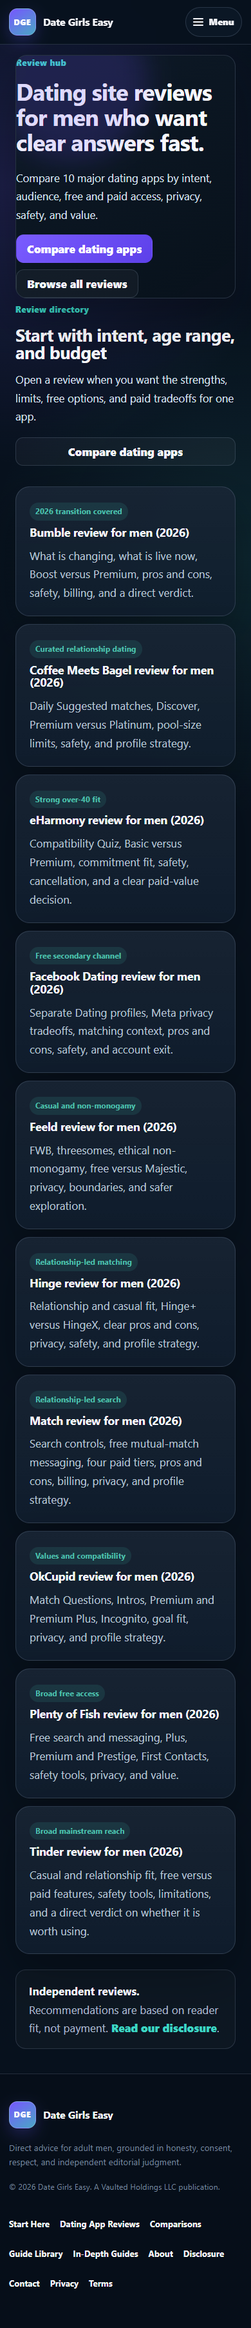
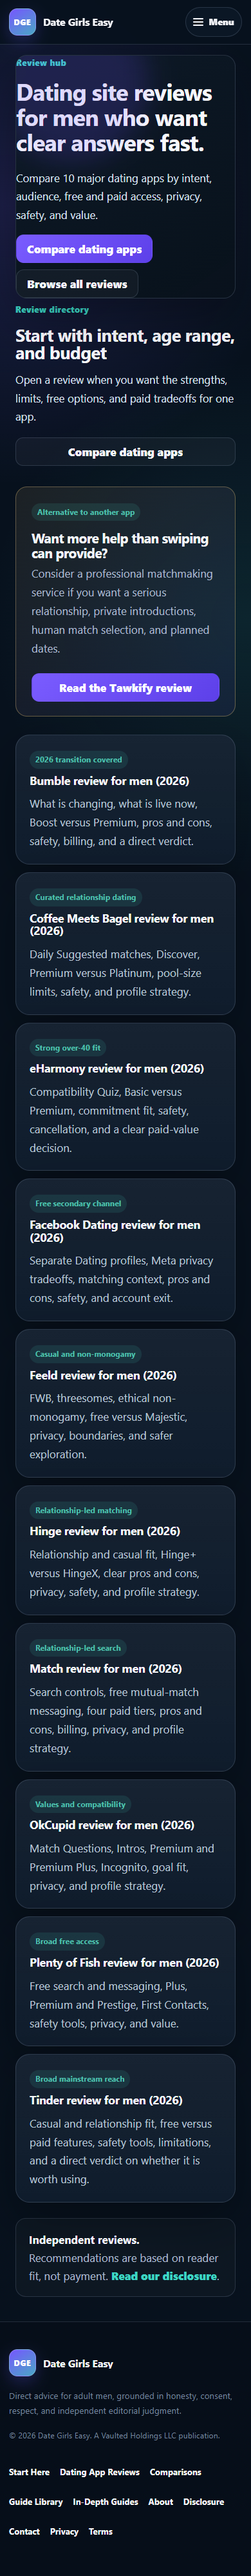
Add Tawkify matchmaking review and Impact verification

Changed region(s): [[0.0308, 0.0, 0.9231, 0.9945], [0.8615, 0.9012, 0.8923, 0.9323], [0.0615, 0.2486, 0.0923, 0.2797]]

diff --git a/reviews/tawkify.html b/reviews/tawkify.html
@@ -1,0 +1,98 @@
+<!doctype html>
+<html lang="en" class="no-js">
+  <head>
+    <script>(function(w,d,s,l,i){w[l]=w[l]||[];w[l].push({'gtm.start':new Date().getTime(),event:'gtm.js'});var f=d.getElementsByTagName(s)[0],j=d.createElement(s),dl=l!='dataLayer'?'&l='+l:'';j.async=true;j.src='https://www.googletagmanager.com/gtm.js?id='+i+dl;f.parentNode.insertBefore(j,f);})(window,document,'script','dataLayer','GTM-KLM9MDV3');</script>
+    <script async src="https://www.googletagmanager.com/gtag/js?id=G-T2TQHDFBZP"></script><script>window.dataLayer=window.dataLayer||[];function gtag(){dataLayer.push(arguments);}gtag('js',new Date());gtag('config','G-T2TQHDFBZP');</script>
+    <meta charset="utf-8" />
+    <meta name="viewport" content="width=device-width, initial-scale=1" />
+    <title>Tawkify Review for Men (2026): Cost, Pros, and Cons</title>
+    <meta name="description" content="2026 Tawkify review for men: how its matchmaking works, client versus member access, pricing context, screening, pros and cons, and who should apply." />
+    <link rel="canonical" href="https://dategirlseasy.com/reviews/tawkify.html" />
+    <link rel="manifest" href="/manifest.webmanifest" /><link rel="icon" href="/assets/logo.png" /><meta name="theme-color" content="#07111d" />
+    <meta property="og:site_name" content="Date Girls Easy" /><meta property="og:title" content="Tawkify Review for Men (2026): Cost, Pros, and Cons" /><meta property="og:description" content="A direct review of Tawkify's private, human-led matchmaking service for relationship-minded men who want an alternative to dating apps." /><meta property="og:type" content="article" /><meta property="og:url" content="https://dategirlseasy.com/reviews/tawkify.html" /><meta property="og:image" content="https://dategirlseasy.com/assets/images/reviews/review-app-choice-editorial.jpg" />
+    <meta name="twitter:card" content="summary_large_image" /><meta name="twitter:title" content="Tawkify Review for Men (2026)" /><meta name="twitter:description" content="Who Tawkify suits, what its matchmakers do, what it costs, and when a dating app is the better choice." /><meta name="twitter:image" content="https://dategirlseasy.com/assets/images/reviews/review-app-choice-editorial.jpg" />
+    <link rel="stylesheet" href="/design-v2.css" /><script>document.documentElement.className="js";</script>
+    <script type="application/ld+json">{"@context":"https://schema.org","@graph":[{"@type":"Review","name":"Tawkify Review for Men (2026): Cost, Pros, and Cons","itemReviewed":{"@type":"Service","name":"Tawkify personalized matchmaking","provider":{"@type":"Organization","name":"Tawkify"}},"author":{"@type":"Organization","name":"Date Girls Easy"},"publisher":{"@type":"Organization","name":"Vaulted Holdings LLC"},"datePublished":"2026-08-25","dateModified":"2026-08-25","reviewBody":"Tawkify is a high-touch alternative to dating apps for relationship-minded men who value privacy, human match selection, screening, and planned dates. It is a weak fit for casual goals, tight budgets, or men who want to browse profiles themselves.","mainEntityOfPage":"https://dategirlseasy.com/reviews/tawkify.html"},{"@type":"BreadcrumbList","itemListElement":[{"@type":"ListItem","position":1,"name":"Home","item":"https://dategirlseasy.com/"},{"@type":"ListItem","position":2,"name":"Reviews","item":"https://dategirlseasy.com/reviews/"},{"@type":"ListItem","position":3,"name":"Tawkify review","item":"https://dategirlseasy.com/reviews/tawkify.html"}]}]}</script>
+  </head>
+  <body class="design-v2">
+    <noscript><iframe title="Google Tag Manager" src="https://www.googletagmanager.com/ns.html?id=GTM-KLM9MDV3" height="0" width="0" style="display:none;visibility:hidden"></iframe></noscript>
+    <a class="skip-link" href="#main-content">Skip to content</a>
+    <header class="publisher-header">
+      <div class="site-shell header-bar">
+        <a class="publisher-brand" href="/" aria-label="Date Girls Easy home"><span class="brand-seal" aria-hidden="true">DGE</span><span class="brand-words"><strong>Date Girls Easy</strong><small>Adult dating intelligence for men</small></span></a>
+        <button class="menu-toggle" type="button" aria-controls="primary-nav" aria-expanded="false" data-menu-toggle><span class="menu-icon" aria-hidden="true"></span>Menu</button>
+        <nav class="primary-nav" id="primary-nav" aria-label="Primary" data-primary-nav data-open="false">
+          <a class="nav-direct" href="/join.html">Start Here</a>
+          <div class="nav-group" data-nav-group>
+            <button class="nav-trigger is-active" type="button" aria-expanded="false" aria-controls="nav-dating-apps" data-nav-trigger>Dating Apps<span class="nav-chevron" aria-hidden="true"></span></button>
+            <div class="nav-submenu nav-submenu-apps" id="nav-dating-apps" data-nav-submenu data-open="false">
+              <div class="nav-submenu-featured">
+                <a href="/comparisons/"><strong>Compare Dating Apps</strong><span>Compare two or three side by side</span></a>
+                <a href="/reviews/"><strong>Dating App Reviews</strong><span>Research one platform in depth</span></a>
+              </div>
+              <div class="nav-submenu-section">
+                <span class="nav-submenu-label">Individual app reviews</span>
+                <div class="nav-app-links">
+                  <a href="/reviews/bumble.html">Bumble Review</a>
+                  <a href="/reviews/coffee-meets-bagel.html">Coffee Meets Bagel Review</a>
+                  <a href="/reviews/eharmony.html">eHarmony Review</a>
+                  <a href="/reviews/facebook-dating.html">Facebook Dating Review</a>
+                  <a href="/reviews/feeld.html">Feeld Review</a>
+                  <a href="/reviews/hinge.html">Hinge Review</a>
+                  <a href="/reviews/match.html">Match Review</a>
+                  <a href="/reviews/okcupid.html">OkCupid Review</a>
+                  <a href="/reviews/plenty-of-fish.html">Plenty of Fish Review</a>
+                  <a href="/reviews/tinder.html">Tinder Review</a>
+                </div>
+              </div>
+            </div>
+          </div>
+          <div class="nav-group" data-nav-group>
+            <button class="nav-trigger" type="button" aria-expanded="false" aria-controls="nav-guides" data-nav-trigger>Guides<span class="nav-chevron" aria-hidden="true"></span></button>
+            <div class="nav-submenu nav-submenu-guides" id="nav-guides" data-nav-submenu data-open="false">
+              <div class="nav-submenu-featured">
+                <a href="/guides/"><strong>Guide Library</strong><span>Search every guide by goal, topic, or format</span></a>
+                <a href="/ebooks/"><strong>In-Depth Guides</strong><span>Longer, chapter-based reading</span></a>
+              </div>
+              <div class="nav-submenu-section">
+                <span class="nav-submenu-label">Browse by topic</span>
+                <div class="nav-guide-links">
+                  <a href="/ebooks/profile-and-photos/">Profiles &amp; Photos</a>
+                  <a href="/ebooks/messaging-and-openers/">Messaging &amp; Texting</a>
+                  <a href="/ebooks/dates-and-escalation/">Getting Dates &amp; Chemistry</a>
+                  <a href="/ebooks/mindset-and-confidence/">Confidence &amp; Social Skills</a>
+                  <a href="/ebooks/body-language/">Body Language</a>
+                  <a href="/ebooks/kissing-and-intimacy/">Kissing &amp; Intimacy</a>
+                </div>
+              </div>
+            </div>
+          </div>
+        </nav>
+      </div>
+    </header>
+    <main class="article-main" id="main-content"><article class="site-shell">
+      <nav class="breadcrumbs" aria-label="Breadcrumb"><a href="/">Home</a><span>/</span><a href="/reviews/">Reviews</a><span>/</span><span aria-current="page">Tawkify review</span></nav>
+      <header class="article-hero"><div><p class="eyebrow warm">Matchmaking service review</p><h1 class="article-title">Tawkify review for men</h1><p class="lede"><strong>Bottom line:</strong> Tawkify is a premium alternative for busy, privacy-conscious men seeking a serious relationship. Skip it for hookups, tight budgets, or if you want to browse profiles yourself.</p><div class="meta-row"><span>Adults 18+</span><span>U.S.-focused</span><span>Independently researched</span><span>Updated August 25, 2026</span></div><p class="checkpoint-note"><strong>Verified August 25, 2026:</strong> service details and pricing references were checked against official Tawkify pages. Company performance statistics are marketing claims, not independently verified results.</p></div><figure class="decision-visual editorial-image-frame ratio-3-2"><picture><source type="image/webp" srcset="/assets/images/reviews/review-app-choice-editorial-640.webp 640w" sizes="(max-width: 800px) calc(100vw - 28px), 430px" /><img src="/assets/images/reviews/review-app-choice-editorial.jpg" width="960" height="640" alt="Adult man comparing dating options on his phone" loading="eager" fetchpriority="high" /></picture></figure></header>
+      <div class="quick-grid" role="group" aria-label="Quick Tawkify review facts"><div><strong>Best for</strong><span>Busy, privacy-conscious men seeking a committed relationship</span></div><div><strong>Weaker fit for</strong><span>Casual dating, hookups, FWB, and budget-first dating</span></div><div><strong>Price level</strong><span>High for full service; request the complete written quote</span></div><div><strong>Editorial verdict</strong><span>A premium human-led alternative, not a better app</span></div></div>
+      <div class="article-layout"><div class="article-content">
+        <section class="article-panel" id="verdict"><p class="eyebrow">Who Tawkify is for</p><h2 class="panel-title">Consider it when app fatigue is costing you time, not just patience.</h2><p>Tawkify replaces public profile browsing with a private, guided process. A dedicated matchmaker learns your relationship history, values, preferences, lifestyle, and dealbreakers, then looks for compatible candidates, screens potential matches, arranges introductions, plans dates, and uses post-date feedback to refine the search.</p><p>That model can make sense for a man with a demanding schedule who wants a long-term partner and is willing to pay for research, logistics, privacy, and accountability. It is not a shortcut to guaranteed chemistry. The service can create introductions; both adults still decide whether attraction, compatibility, and a relationship develop.</p></section>
+        <h2 id="goal-fit">Fit by dating goal</h2><div class="comparison-table-wrap" tabindex="0" aria-labelledby="goal-fit"><table class="comparison-table"><thead><tr><th>Goal</th><th>Editorial fit</th><th>Why</th></tr></thead><tbody><tr><td>Casual dating</td><td>Weak</td><td>The cost and process are built around intentional relationship matching</td></tr><tr><td>One-night encounter</td><td>Poor</td><td>A dating app with honest casual-intent signals is the more appropriate route</td></tr><tr><td>FWB</td><td>Poor</td><td>The high-touch model is inefficient for a noncommitted arrangement</td></tr><tr><td>More quality dates</td><td>Potentially strong</td><td>Human selection and screening can reduce low-fit conversations</td></tr><tr><td>Long-term relationship</td><td>Strongest fit</td><td>The service is explicitly designed for relationship-ready singles</td></tr></tbody></table></div>
+        <h2 id="how-it-works">How the matchmaking process works</h2><ol><li><strong>Apply and qualify.</strong> You answer initial questions, then speak with a client experience specialist if Tawkify believes the service may fit.</li><li><strong>Choose a package.</strong> Full-service clients select a personalized package based on search scope, match count, and support level.</li><li><strong>Meet your matchmaker.</strong> The official FAQ describes an initial 60-minute onboarding conversation covering preferences, values, history, and goals.</li><li><strong>Let the team search and screen.</strong> Tawkify says it searches its private network and may also recruit beyond it. Potential matches receive a live video screening and criminal-record screening.</li><li><strong>Show up for the planned date.</strong> The team coordinates the introduction and custom-plans the date around stated preferences.</li><li><strong>Give useful feedback.</strong> Post-date feedback helps the matchmaker adjust future choices. Tawkify says clients typically receive about one match per month, though package and search conditions matter.</li></ol>
+        <section class="article-panel"><p class="eyebrow warm">The main tradeoff</p><h2 class="panel-title">You gain curation and lose browsing control.</h2><p>Tawkify uses a blind-date-oriented process instead of handing you a public catalog of profiles. The company says physical preferences remain part of matching, but the point is to reduce snap judgments based only on photos. That can broaden your choices—or feel frustrating if seeing and selecting profiles yourself is essential to how you date.</p></section>
+        <h2 id="client-member">Client versus candidate-pool member</h2><div class="comparison-table-wrap" tabindex="0" aria-labelledby="client-member"><table class="comparison-table"><thead><tr><th>Route</th><th>What you receive</th><th>Important limitation</th></tr></thead><tbody><tr><td>Full-service client</td><td>Dedicated matchmaker, active search, screened introductions, planned dates, and feedback</td><td>Premium personalized pricing; chemistry and relationship outcomes are not guaranteed</td></tr><tr><td>Candidate-pool member</td><td>Your profile can be considered when a matchmaker is searching for a paying client</td><td>No dedicated matchmaker and no guarantee you will be selected or receive a date</td></tr></tbody></table></div>
+        <p>At the time of review, Tawkify's shop listed a one-year candidate-pool membership for $99 as a one-time, nonrenewing charge. That is not the full matchmaking service. A member waits to be considered for a client; a client pays for an active, guided search.</p>
+        <h2 id="cost">What Tawkify costs</h2><p>Tawkify's FAQ does not publish one universal full-service price. It says packages depend on features and the number of included matches. Current official Tawkify articles also publish inconsistent starting references: one 2026 comparison says client packages start at $4,900, while a separate package guide describes basic service starting around $6,000. Treat the proposal and contract you receive—not a blog figure—as the controlling price.</p>
+        <section class="article-panel"><p class="eyebrow warm">Before paying</p><h2 class="panel-title">Get the entire commitment in writing.</h2><ul><li>Total price, payment schedule, taxes, date costs, and any add-ons.</li><li>Number of introductions, search period, expected cadence, and pause rules.</li><li>Geographic search area and how many suitable candidates are realistically available there.</li><li>What counts as a delivered match and what happens when either person declines.</li><li>Refund, replacement-match, cancellation, and expiration terms.</li><li>Which coaching, events, or second-date services are included rather than optional.</li></ul></section>
+        <h2 id="claims">How to read the 6.5× claim</h2><p>Tawkify currently says its clients are 6.5 times more likely to find a compatible match than dating-app users. Its marketing also cites an 80% success figure, more than three million singles in its network, and more than 200,000 successful connections. These are company-reported figures. Tawkify's own footnotes define some success reporting around matched couples within the first 8–12 matches and compare it with a cited dating-app benchmark.</p><p>Those figures can describe Tawkify's methodology, but they cannot predict your outcome. Ask the consultant to define “success,” explain which client population the percentage covers, and provide the current written methodology before treating a headline number as a purchase reason.</p>
+        <h2 id="pros-cons">Tawkify pros and cons for men</h2><div class="principle-grid"><section class="example-card"><p class="eyebrow">Pros</p><h3 class="panel-title">Where the service earns attention</h3><ul><li>A human matchmaker learns more than profile filters can capture.</li><li>Private profiles reduce public exposure and swipe fatigue.</li><li>Screening and video interviews add useful friction before a date.</li><li>Date planning and scheduling save time.</li><li>Feedback gives the search an explicit improvement loop.</li></ul></section><section class="example-card"><p class="eyebrow warm">Cons</p><h3 class="panel-title">Where the model creates friction</h3><ul><li>Full-service matchmaking is expensive.</li><li>You cannot browse and choose from a public profile catalog.</li><li>Match cadence is slower than high-volume app discovery.</li><li>Pool depth can vary by city, age, and preferences.</li><li>A matchmaker can improve selection but cannot manufacture attraction.</li></ul></section><section class="example-card"><p class="eyebrow">Reality check</p><h3 class="panel-title">The service buys effort, not destiny</h3><p>You are paying someone to search, qualify, coordinate, and learn from feedback. You are not buying a guaranteed partner, sexual chemistry, or a specific timeline.</p></section></div>
+        <h2 id="privacy-safety">Privacy, screening, and safety</h2><p>Tawkify says client profiles and contact information stay confidential until the people involved choose to share, and that every proposed match receives criminal-record and live video screening. That is more screening than most dating apps advertise, but it is not a guarantee of identity, compatibility, safety, or future behavior. Background data can be incomplete, delayed, or limited by jurisdiction.</p><p>Keep ordinary first-date precautions: meet in public, control transportation, tell someone where you are, protect financial and home information, and leave when something feels wrong. Screening never replaces consent. A paid introduction, planned date, or relationship goal does not obligate either person to kiss, have sex, or continue dating.</p>
+        <section class="article-panel" id="avoid"><p class="eyebrow">Who should avoid Tawkify</p><h2 class="panel-title">Use an app when autonomy, volume, or casual intent matters more than concierge help.</h2><p>Skip full-service matchmaking if you primarily want hookups, casual encounters, or FWB; if paying several thousand dollars would create resentment or pressure; if you need to browse photos before considering anyone; or if you are unwilling to accept a slower, feedback-driven process. Men in smaller markets or with very narrow requirements should demand realistic pool information before signing.</p></section>
+        <h2 id="consultation">Questions to ask during the consultation</h2><ol><li>How many active candidates fit my age, location, relationship goal, and nonnegotiable preferences?</li><li>Will you search outside the existing network, and is that included in my package?</li><li>Who will be my matchmaker, and can that person change?</li><li>How often should I realistically expect an introduction?</li><li>What screening is performed, by whom, and what are its limitations?</li><li>How are physical preferences handled in the blind-date process?</li><li>What happens when a proposed match does not meet the agreed criteria?</li><li>What exact refund, replacement, pause, cancellation, and expiration terms apply?</li></ol>
+        <section class="article-panel" id="verdict-final"><p class="eyebrow warm">Final verdict</p><h2 class="panel-title">Tawkify makes sense for the right problem.</h2><p>If dating apps are failing because you lack time, privacy, qualified introductions, or consistent follow-through—and you are genuinely seeking a serious relationship—the human-led service is a credible alternative to investigate. If the real problem is weak photos, unclear intent, poor conversations, or unwillingness to date consistently, paying a matchmaker may simply make the same issue more expensive.</p><div class="chip-row"><a class="text-chip" href="/comparisons/">Compare dating apps</a><a class="text-chip" href="/reviews/eharmony.html">Review eHarmony</a><a class="text-chip" href="/reviews/match.html">Review Match</a><a class="text-chip" href="/playbooks/first-date-playbook.html">First-date playbook</a></div></section>
+        <aside class="source-note" id="sources" aria-labelledby="tawkify-sources-heading"><p class="eyebrow">Official sources checked August 25, 2026</p><h2 class="panel-title" id="tawkify-sources-heading">Service details are sourced; fit judgments are editorial.</h2><ul><li><a href="https://tawkify.com/">Tawkify service overview and company-reported results</a></li><li><a href="https://tawkify.com/how-it-works">Client process, service comparison, and package features</a></li><li><a href="https://tawkify.com/faq">Client versus member access, screening, privacy, cadence, network, and packages</a></li><li><a href="https://shop.tawkify.com/products/1-year-in-tawkify-dating-pool-non-refundable-copy">Candidate-pool membership price and limitations</a></li><li><a href="https://tawkify.com/blog/dating-methods/best-matchmaking-services">Official 2026 matchmaking comparison and starting-price reference</a></li><li><a href="https://tawkify.com/blog/dating-methods/how-much-do-matchmakers-cost">Official package explainer and alternate starting-price reference</a></li></ul><p>Date Girls Easy does not claim firsthand testing, a guaranteed outcome, or an independently verified success rate. Confirm current pricing, screening, service scope, and contract terms directly with Tawkify.</p></aside>
+        <section class="article-panel tawkify-cta" id="consider-tawkify"><p class="eyebrow warm">Consider professional matchmaking</p><h2 class="panel-title">Want more help than another dating app can provide?</h2><p>If you want a serious relationship and the privacy, screening, planning, and human judgment described above fit your priorities, review Tawkify's current process and see whether it will accept you as a client.</p><p class="affiliate-note">Date Girls Easy may earn a commission if you sign up through links on this page, at no additional cost to you.</p><div class="button-row"><a class="button-outbound" id="tawkify-outbound-link" href="https://tawkify.com/">Explore Tawkify's matchmaking process <span aria-hidden="true">↗</span></a></div></section>
+      </div><aside class="toc" aria-label="On this page"><strong>On this page</strong><a href="#verdict">Quick verdict</a><a href="#goal-fit">Fit by goal</a><a href="#how-it-works">How it works</a><a href="#client-member">Client vs member</a><a href="#cost">Cost</a><a href="#claims">Success claims</a><a href="#pros-cons">Pros and cons</a><a href="#privacy-safety">Privacy and safety</a><a href="#avoid">Who should avoid it</a><a href="#consultation">Questions to ask</a><a href="#verdict-final">Final verdict</a><a href="#sources">Sources</a><a href="#consider-tawkify">Consider Tawkify</a></aside></div>
+    </article></main>
+    <footer class="publisher-footer"><div class="site-shell footer-grid-v2"><div><a class="publisher-brand" href="/"><span class="brand-seal" aria-hidden="true">DGE</span><span class="brand-words"><strong>Date Girls Easy</strong><small>Adult dating intelligence for men</small></span></a><p class="footer-copy">Direct advice for adult men, grounded in honesty, consent, respect, and independent editorial judgment.</p><p class="footer-meta-v2">&copy; 2026 Date Girls Easy. A Vaulted Holdings LLC publication.</p></div><nav class="footer-nav-v2" aria-label="Footer"><a href="/join.html">Start Here</a><a href="/reviews/">Dating App Reviews</a><a href="/comparisons/">Comparisons</a><a href="/guides/">Guide Library</a><a href="/ebooks/">In-Depth Guides</a><a href="/about.html">About</a><a href="/disclosure.html">Disclosure</a><a href="/contact.html">Contact</a><a href="/privacy.html">Privacy</a><a href="/terms.html">Terms</a></nav></div></footer><script src="/assets/site.js" defer></script>
+  </body>
+</html>

diff --git a/design-v2.css b/design-v2.css
@@ -1342,6 +1342,36 @@ a.goal-card:hover {
   margin-bottom: 4px;
 }
 
+.matchmaking-alternative {
+  display: flex;
+  gap: 24px;
+  align-items: center;
+  justify-content: space-between;
+  margin: 0 0 28px;
+  padding: 22px 24px;
+  border: 1px solid rgba(246, 204, 120, 0.34);
+  border-radius: 18px;
+  background: linear-gradient(135deg, rgba(246, 204, 120, 0.09), rgba(118, 87, 255, 0.08));
+}
+
+.matchmaking-alternative > div {
+  max-width: 760px;
+}
+
+.matchmaking-alternative h3 {
+  margin: 8px 0 6px;
+  font-size: clamp(1.3rem, 2vw, 1.75rem);
+}
+
+.matchmaking-alternative p {
+  margin: 0;
+  color: var(--muted);
+}
+
+.matchmaking-alternative > .button {
+  flex: 0 0 auto;
+}
+
 .review-directory-note {
   margin-top: 24px;
   padding: 18px 20px;
@@ -2874,6 +2904,15 @@ a.goal-card:hover {
 }
 
 @media (max-width: 720px) {
+  .matchmaking-alternative {
+    align-items: flex-start;
+    flex-direction: column;
+  }
+
+  .matchmaking-alternative > .button {
+    width: 100%;
+  }
+
   .review-directory-head {
     display: grid;
     gap: 18px;

diff --git a/reviews/index.html b/reviews/index.html
@@ -150,6 +150,14 @@
           </div>
           <a class="button secondary" href="/comparisons/">Compare dating apps</a>
         </div>
+        <aside class="matchmaking-alternative" aria-labelledby="matchmaking-alternative-title">
+          <div>
+            <span class="card-kicker">Alternative to another app</span>
+            <h3 id="matchmaking-alternative-title">Want more help than swiping can provide?</h3>
+            <p>Consider a professional matchmaking service if you want a serious relationship, private introductions, human match selection, and planned dates.</p>
+          </div>
+          <a class="button" href="/reviews/tawkify.html">Read the Tawkify review</a>
+        </aside>
         <ul class="card-grid review-card-grid">
           <li class="card">
             <a href="/reviews/bumble.html">

diff --git a/index.html b/index.html
@@ -20,6 +20,7 @@
 
     <meta charset="utf-8" />
     <meta name="viewport" content="width=device-width, initial-scale=1" />
+    <meta name="impact-site-verification" value="bc6af6c1-e12b-4c94-ad6d-3e83f48f5aa6" />
     <title>Date Girls Easy | Dating Site Reviews, Comparisons, Guides, and Ebooks for Men</title>
     <meta name="description" content="Date Girls Easy is a mobile-first publisher for men who want honest dating site reviews, side-by-side comparisons, practical guides, and curated ebooks." />
     <link rel="canonical" href="https://dategirlseasy.com/" />

diff --git a/scripts/browser_qa.js b/scripts/browser_qa.js
@@ -56,6 +56,8 @@ const screenshotPages = [
   ["coffee-meets-bagel-review-mobile.png", "/reviews/coffee-meets-bagel.html", 390, 844],
   ["plenty-of-fish-review-desktop.png", "/reviews/plenty-of-fish.html", 1440, 1000],
   ["plenty-of-fish-review-mobile.png", "/reviews/plenty-of-fish.html", 390, 844],
+  ["tawkify-review-desktop.png", "/reviews/tawkify.html", 1440, 1000],
+  ["tawkify-review-mobile.png", "/reviews/tawkify.html", 390, 844],
 ];
 
 const representativePaths = [...new Set(screenshotPages.filter((item) => item[1] !== "/404.html").map((item) => item[1]))];

diff --git a/scripts/qa_site.py b/scripts/qa_site.py
@@ -325,6 +325,20 @@ def main() -> int:
         footer_match = re.search(r'<footer class="publisher-footer">.*?</footer>', raw, flags=re.DOTALL)
         if footer_match and "data-current-year" in footer_match.group(0):
             errors.append(f"{rel}: footer must use the approved fixed 2026 copyright line")
+        if rel == "reviews/tawkify.html":
+            tawkify_disclosure = "Date Girls Easy may earn a commission if you sign up through links on this page, at no additional cost to you."
+            disclosure_position = raw.find(tawkify_disclosure)
+            outbound_position = raw.find('id="tawkify-outbound-link"')
+            if disclosure_position < 0:
+                errors.append(f"{rel}: exact Tawkify affiliate disclosure is missing")
+            if outbound_position < 0:
+                errors.append(f"{rel}: Tawkify outbound CTA is missing")
+            if disclosure_position >= 0 and outbound_position >= 0 and disclosure_position > outbound_position:
+                errors.append(f"{rel}: Tawkify disclosure must precede the first commercial CTA")
+        if rel == "reviews/index.html" and 'href="/reviews/tawkify.html"' not in raw:
+            errors.append(f"{rel}: matchmaking alternative does not link to the Tawkify review")
+        if rel == "index.html" and raw.count('<meta name="impact-site-verification" value="bc6af6c1-e12b-4c94-ad6d-3e83f48f5aa6" />') != 1:
+            errors.append(f"{rel}: Impact website-verification tag is missing or duplicated")
         if re.search(r'href=["\']\s*#["\']', raw, flags=re.IGNORECASE):
             errors.append(f"{rel}: contains a placeholder href")
         if raw.count("data-nav-trigger") != 2:

diff --git a/CHANGELOG-PROJECT.md b/CHANGELOG-PROJECT.md
@@ -1,5 +1,15 @@
 # Project Changelog
 
+## 2026-08-25 — Tawkify matchmaking alternative and Impact verification
+
+- Published an original, independently researched Tawkify review for U.S. adult men considering a human-led alternative to dating apps, with clear relationship-goal fit, client-versus-member distinctions, pricing conflicts, company-claim caveats, screening limits, pros and cons, consultation questions, and a direct verdict.
+- Added a visually distinct **Want more help than swiping can provide?** route on the review hub without presenting Tawkify as an app or inserting it into the ten-app comparison grid or app-only dropdown.
+- Positioned the sole commercial-style Tawkify CTA at the end of the article after the verdict and official sources. The owner-supplied commission disclosure appears verbatim immediately above the link; the affiliate registry records Impact activation and tracking-link requirements.
+- Added the Impact website-verification meta tag to the homepage without changing existing GTM, analytics, SEO, Open Graph, or structured metadata.
+- Final QA passes across 55 HTML pages, 48 sitemap URLs, 330 full-site responsive combinations, 132 representative combinations, valid HTML/JSON-LD, and 110 axe/WCAG combinations with zero violations. Tawkify scores 98 performance, 100 accessibility, and 100 SEO, with 2.40-second LCP and zero CLS; the homepage and review hub remain 99/100/100.
+- The pre-deployment external review checks 138 public HTTP references: all existing destinations pass or use ordinary automated-client protection, with only the expected unpublished Tawkify canonical returning 404 before this release.
+- Rollback tag `backup/pre-tawkify-impact-2026-08-25` preserves deployed commit `409dd0e2a08c5e823106872a6ffd754dc60d3165` before this enhancement.
+
 ## 2026-08-25 — Legal publisher identity correction
 
 - Corrected the legal publisher from the previously recorded name to **Vaulted Holdings LLC** while retaining **Date Girls Easy** as the public-facing publication and brand.

diff --git a/QA-CHECKLIST.md b/QA-CHECKLIST.md
@@ -1,5 +1,17 @@
 # QA Checklist
 
+## Tawkify matchmaking alternative and Impact verification
+
+- [x] Tawkify is presented as a matchmaking-service alternative and is not mixed into the app-only comparison table or dropdown
+- [x] Review covers fit, process, client versus member access, pricing context, company-reported claims, pros and cons, privacy, screening limits, contract questions, and who should avoid it
+- [x] Sole commercial-style CTA follows the final verdict and official sources; the exact owner-supplied disclosure appears immediately above it
+- [x] Affiliate registry keeps the Tawkify tracking identifier pending and records Impact activation requirements
+- [x] Homepage contains the Impact verification UUID exactly once without removing or changing existing analytics or metadata
+- [x] Structural QA and HTML/JSON-LD validation pass across 55 HTML pages and 48 sitemap URLs
+- [x] Responsive/browser QA passes 330 full-site and 132 representative combinations at 320, 375, 390, 768, 1024, and 1440 pixels
+- [x] Axe/WCAG audit passes 110 combinations with zero violations
+- [x] Tawkify Lighthouse scores 98 performance, 100 accessibility, 100 SEO, 2.40-second LCP, and zero CLS; homepage and review hub remain 99/100/100
+
 ## Legal publisher identity correction
 
 - [x] Every one of the 54 public HTML pages contains the exact approved footer once

diff --git a/DEPLOYMENT-AND-ROLLBACK.md b/DEPLOYMENT-AND-ROLLBACK.md
@@ -22,6 +22,7 @@ Incremental enhancement rollback points:
 - Homepage discovery and featured-content polish: rollback point `ade7ae7fb12481bd5676965ecfe74b7356b4d548`, preserved as `backup/pre-homepage-discovery-2026-08-25`.
 - CJ privacy and affiliate-compliance readiness: rollback point `a90decce0a3485db82fb56ab8aa60cca3b47cd5b`, preserved as `backup/pre-cj-privacy-2026-08-25`.
 - Legal publisher identity correction: rollback point `cad930faac5b35ec2ca5f49a1cdd9c466d36cc51`, preserved as `backup/pre-vaulted-publisher-2026-08-25`.
+- Tawkify matchmaking alternative and Impact verification: rollback point `409dd0e2a08c5e823106872a6ffd754dc60d3165`, preserved as `backup/pre-tawkify-impact-2026-08-25`.
 
 ## Release
 
